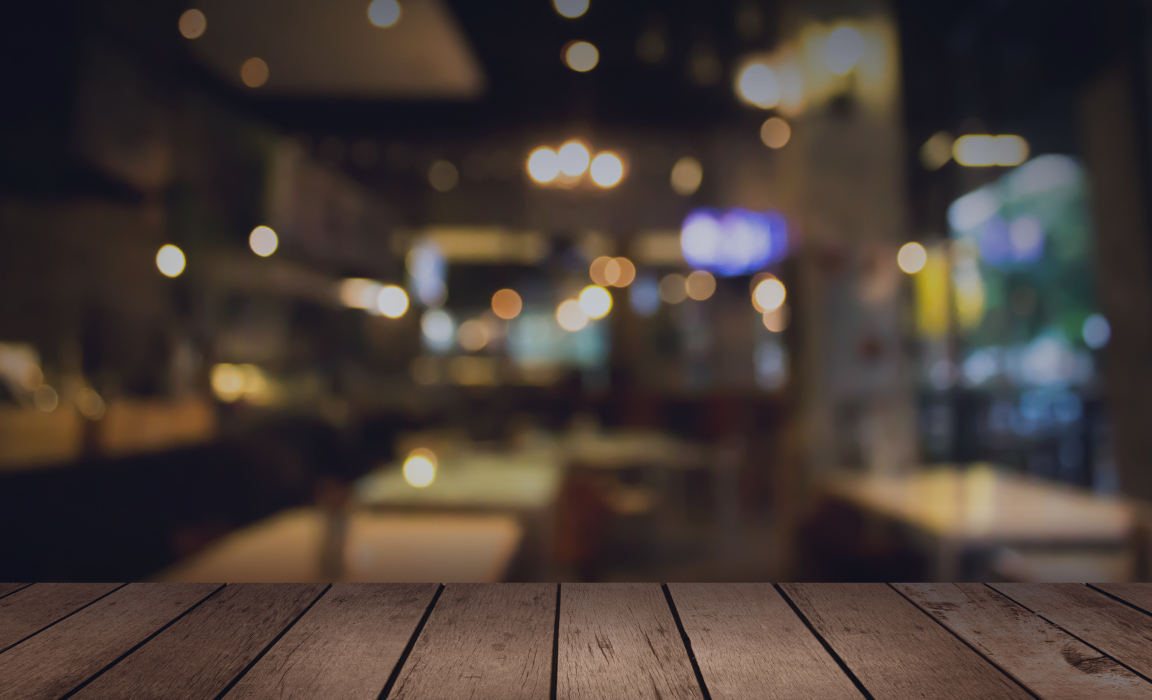
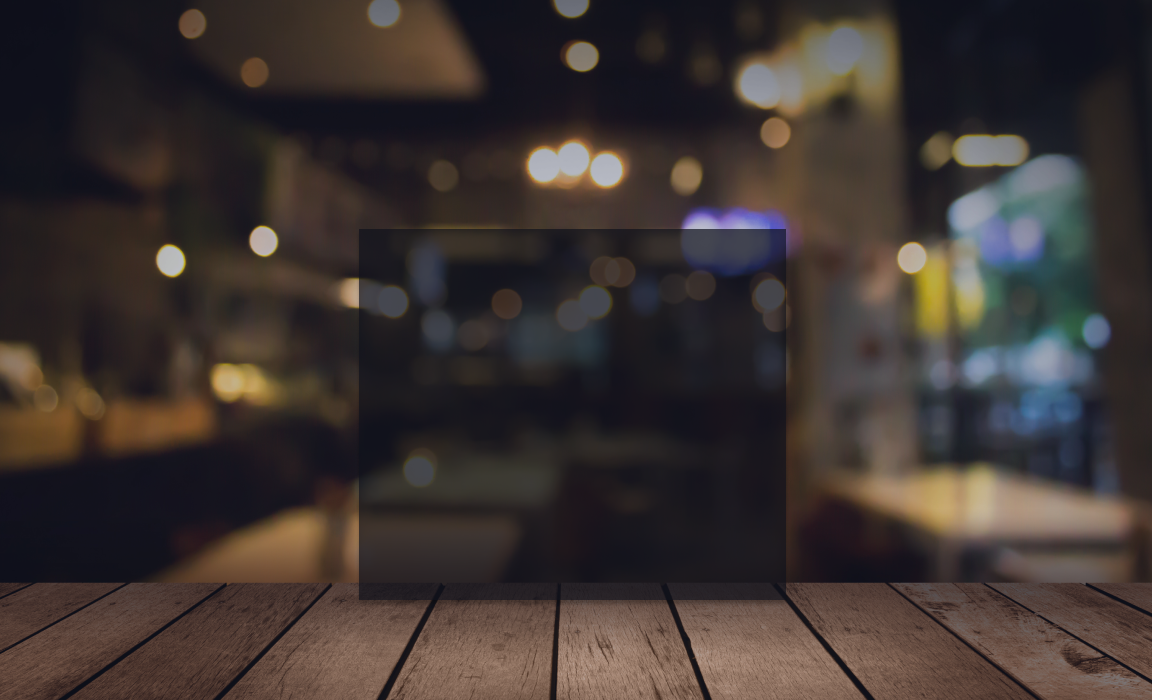
Pantalla splash, inicio, platillos

Changed region(s): [[0.3125, 0.33, 0.6875, 0.87]]

diff --git a/ExamenU3/src/Ventana.java b/ExamenU3/src/Ventana.java
@@ -14,6 +14,8 @@ public class Ventana extends JFrame {
     Login login; 
     Inicio inicio;
     private int contador = 0;
+    private JPanel panelPrincipal;
+    private JLabel modulo;
     
     public Ventana() {
         setBounds(0, 0, 1280, 832);
@@ -24,15 +26,14 @@ public class Ventana extends JFrame {
         
         //mostrarInicio();
         pantallaCarga();
-        
-        repaint();
+
         setVisible(true);
     }
     public void pantallaCarga() {
     	Carga carga = new Carga();
 	    add(carga);
 	    Tiempo(carga);
-	  
+	   
     }
     
   	public void Tiempo(JPanel panelCarga) {
@@ -41,8 +42,9 @@ public class Ventana extends JFrame {
   			@Override
   			public void run() {
   				contador++;
-  				if(contador == 3) {
-  					mostrarLogin();
+  				if(contador == 1) {
+  					mostrarMenu();
+  					//mostrarLogin();
   					panelCarga.setVisible(false);
                     repaint();
   					timer.cancel();	
@@ -59,9 +61,14 @@ public class Ventana extends JFrame {
   		login = new Login(this);
 	}
   	
-  	public void mostrarInicio() {
+  	public void mostrarMenu() {
   		agregarMenu();
-        agregarBarra();
+  		agregarBarra();
+  	}
+  	
+  	public void mostrarInicio() {
+  		agregarBarra();
+  		inicio = new Inicio(this);
   	}
     
     public void agregarBarra() {
@@ -69,6 +76,31 @@ public class Ventana extends JFrame {
     	panel.setLayout(null);
         panel.setBounds(0, 0, 1280, 100);
         panel.setBackground(Color.decode("#26282B"));
+        
+	    JLabel mensaje= new JLabel("BIENVENIDO ADMIN", JLabel.LEFT);
+	    mensaje.setFont(new Font("Inter", Font.PLAIN, 18));
+	    mensaje.setBounds(110, 35, 550, 50);
+	    mensaje.setForeground(Color.white);
+	    mensaje.setOpaque(false);
+        
+		
+		JButton logo = new JButton(null, new ImageIcon("Resources/iconoInicio.png"));
+		logo.setBounds(10,10, 80, 80);
+		logo.setOpaque(true);
+		logo.setContentAreaFilled(false); 
+		logo.setBorderPainted(false);
+		logo.setFocusPainted(false);
+		panel.add(logo);
+		
+		JButton exit = new JButton(null, new ImageIcon("Resources/exit.png"));
+		exit.setBounds(1200, 20, 60, 60);
+		exit.setOpaque(true);
+		exit.setContentAreaFilled(false); 
+		exit.setBorderPainted(false);
+		exit.setFocusPainted(false);
+		panel.add(exit);
+		
+        panel.add(mensaje);
         add(panel);
         repaint();
     }
@@ -79,12 +111,12 @@ public class Ventana extends JFrame {
         panel.setBounds(0, 100, 242, 732);
         panel.setBackground(Color.white);
        
-        JLabel platillos = new JLabel("PLATILLOS", JLabel.CENTER);
-        platillos.setFont(new Font("Inter", Font.PLAIN, 20));
-        platillos.setForeground(Color.white);
-        platillos.setBounds(0, 0, 242, 70);
-        platillos.setBackground(Color.decode("#9F9F9F"));
-        platillos.setOpaque(true);
+        modulo= new JLabel("PLATILLOS", JLabel.CENTER);
+        modulo.setFont(new Font("Inter", Font.PLAIN, 25));
+        modulo.setForeground(Color.white);
+        modulo.setBounds(0, 0, 242, 80);
+        modulo.setBackground(Color.decode("#9F9F9F"));
+        modulo.setOpaque(true);
         
         //Boton consultar//
         JButton botonconsultar = new JButton("   Consultar");
@@ -154,12 +186,32 @@ public class Ventana extends JFrame {
         
         ImageIcon iconoeditar = new ImageIcon("Resources/editar.png");
         botoneditar.setIcon(iconoeditar);
-       
-        panel.add(platillos);
+
+        panel.add(modulo);
         panel.add(botonconsultar);
         panel.add(botoncrear);
         panel.add(botoneditar);
         add(panel);
         repaint();
+        
+        panelPrincipal = new JPanel(null);
+        panelPrincipal.setBounds(100, 100, 1180, 732);
+        panelPrincipal.setBackground(Color.decode("#EBEBEB"));
+
+        JPanel logo = new JPanel();
+		logo.setBounds(360, 100, 630, 630);
+		logo.setOpaque(false);
+		new Imagen("logo.png", logo);
+		
+		panelPrincipal.add(logo);
+        add(panelPrincipal);
+    }
+    
+    public void actualizar(){
+    	repaint();
+    	revalidate();
+    	
     }
 }
+
+

diff --git a/ExamenU3/src/Inicio.java b/ExamenU3/src/Inicio.java
@@ -1,41 +1,57 @@
 import java.awt.Color;
+import java.awt.Dimension;
 import java.awt.Font;
+import java.awt.Point;
 import javax.swing.*;
 
 public class Inicio {
     JFrame frame;
     JPanel centro;
+    private Dimension tamaño = new Dimension(330, 320);
+    private int x = 190;
+    private int y= 250;
+    
+    private Font fuente = new Font("Inter", Font.ITALIC, 25);
+    
     public Inicio(JFrame frame){
 
     	this.frame = frame;
         centro = new JPanel(null);
         centro.setBounds(0, 100, 1280, 732);
-        centro.setBackground(Color.decode("#F1F4FB"));
+        centro.setBackground(Color.decode("#EBEBEB"));
 
-        JButton platillosboton = new JButton(null, new ImageIcon("src\\platillos.png"));
-        platillosboton.setSize(200, 220);
-        platillosboton.setLocation(140,120);
+        JButton platillosboton = new JButton(null, new ImageIcon("Resources/platillo.png"));
+        platillosboton.setSize(tamaño);
+        platillosboton.setLocation(x,y);
         centro.add(platillosboton);
 
         JLabel platillos = new JLabel("Platillos");
         platillos.setSize(200, 100);
-        platillos.setLocation(200, 320);
+        platillos.setLocation(x+110, y+330);
         platillos.setForeground(Color.decode("#4B4F55"));
-        platillos.setFont(new Font("Inter", Font.ITALIC, 20));
+        platillos.setFont(fuente);
         centro.add(platillos);
 
-        JButton platillosordenes = new JButton(null, new ImageIcon("src\\Ordenes.png"));
-        platillosordenes.setSize(230, 220);
-        platillosordenes.setLocation(435,120);
-        centro.add(platillosordenes);
+        JButton ordenesBoton = new JButton(null, new ImageIcon("Resources/orden.png"));
+        ordenesBoton.setSize(tamaño);
+        ordenesBoton.setLocation(x*4,y);
+        centro.add(ordenesBoton);
 
         JLabel ordenes = new JLabel("Ordenes");
         ordenes.setSize(200, 100);
-        ordenes.setLocation(510, 320);
+        ordenes.setLocation(x*5-80, y+330);
         ordenes.setForeground(Color.decode("#4B4F55"));
-        ordenes.setFont(new Font("Inter", Font.ITALIC, 20));
+        ordenes.setFont(fuente);
         centro.add(ordenes);
+        
+        JLabel titulo = new JLabel("ELIGE UN MODULO ");
+        titulo.setSize(550, 100);
+        titulo.setLocation(x*2, y-200);
+        titulo.setForeground(Color.decode("#26282B"));
+        titulo.setFont(new Font("Inter", Font.PLAIN, 55));
+        centro.add(titulo);
 
+       
         frame.getContentPane().add(centro);
         
     }

diff --git a/ExamenU3/src/Carga.java b/ExamenU3/src/Carga.java
@@ -4,23 +4,24 @@ import javax.swing.JLabel;
 import javax.swing.JPanel;
 
 public class Carga extends JPanel {
+	
 	public Carga() {
-		setBackground(Color.decode("#AEECDB"));
+		setBounds(0, 0, 1280, 832);
 		setLayout(null);
+		setBackground(Color.white);
 		
-		JLabel titulo = new JLabel("By Miguel Mendoza", JLabel.CENTER);
-		titulo.setFont(new Font("Arial", Font.BOLD, 14));
-		titulo.setForeground(Color.black);
-		titulo.setSize(400, 35);
-		titulo.setLocation(50,500);
+		JLabel titulo = new JLabel("Loading", JLabel.CENTER);
+		titulo.setFont(new Font("Arial", Font.BOLD, 26));
+		titulo.setForeground(Color.decode("#905453"));
+		titulo.setBounds(560,460, 150, 50);
 		add(titulo);
 		
 		JPanel fondo = new JPanel();
-		fondo.setBackground(Color.white);
-		fondo.setSize(500, 300);
-		fondo.setLocation(0,150);
+		fondo.setBounds(240, 50, 800, 600);
+		fondo.setOpaque(false);
 		add(fondo);
-		
-		Imagen splash = new Imagen("Resources\\intro.gif", 400,300,fondo);
+	
+		repaint();
+		Imagen splash = new Imagen("splash.gif", 800,600,fondo);
 	}
 }

diff --git a/ExamenU3/src/Login.java b/ExamenU3/src/Login.java
@@ -11,7 +11,6 @@ import java.awt.event.ActionEvent;
 import java.awt.event.ActionListener;
 
 public class Login {
-	private Imagen imagen;
 	private JTextField txtfUsuario ;
 	private JPasswordField txtfContraseña;
 	private Font fuente = new Font("Inter", Font.PLAIN, 16);
@@ -24,17 +23,17 @@ public class Login {
 	public Login(JFrame frame) {
 		JPanel panel = new JPanel();
 		panel.setBounds(0, 0, 1280, 832);
-		imagen = new Imagen("fondoLogin2.png",1280 ,832 , panel);
+		new Imagen("fondoLogin2.png",1280 ,832 , panel);
 
         JPanel circulo = new JPanel();
         circulo.setBounds(516, 146, 250, 250);
         circulo.setOpaque(false);
-		imagen = new Imagen("circulo.png",250,250, circulo);
+		new Imagen("circulo.png",250,250, circulo);
 		
 		JPanel logo = new JPanel();
 		logo.setBounds(525, 180, 230, 230);
 		logo.setOpaque(false);
-		imagen = new Imagen("logo.png",180,180, logo);
+		new Imagen("logo1.png",180,180, logo);
 		
 		txtfUsuario = new JTextField("Usuario");
 		txtfUsuario.setFont(fuente);

diff --git a/ExamenU3/src/Imagen.java b/ExamenU3/src/Imagen.java
@@ -21,5 +21,6 @@ public class Imagen {
         ImageIcon imagen2 = new ImageIcon(imagenRedimensionada);
         JLabel carga = new JLabel(imagen2);
         pantalla.add(carga);
+       
     }  
 }
